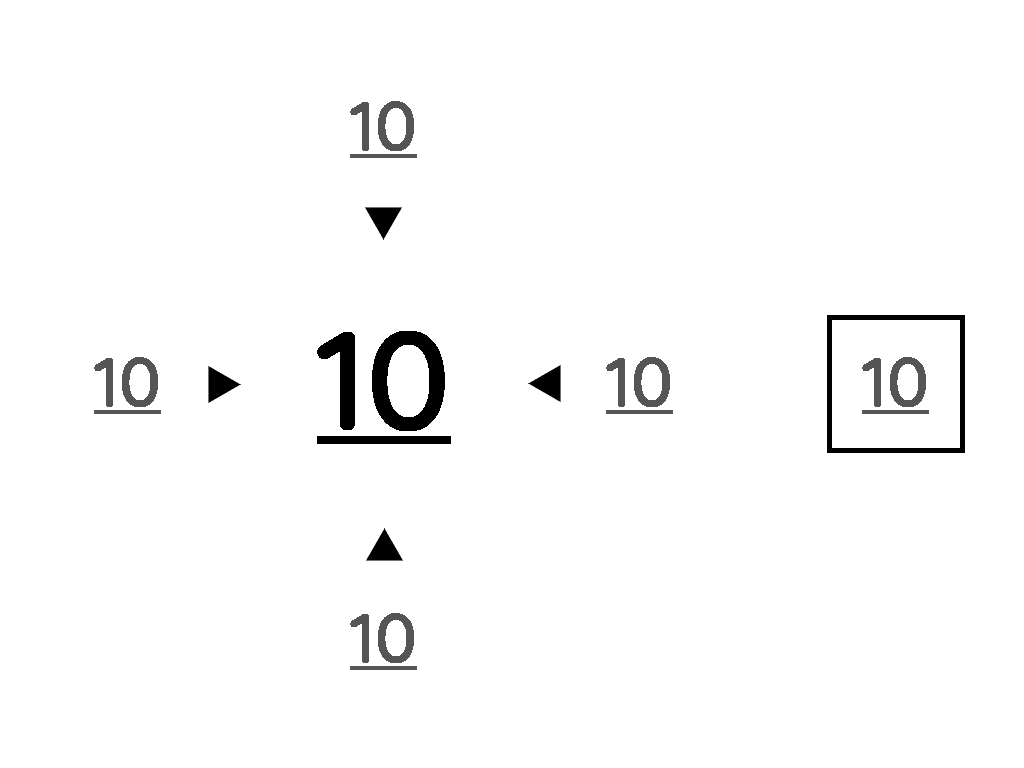
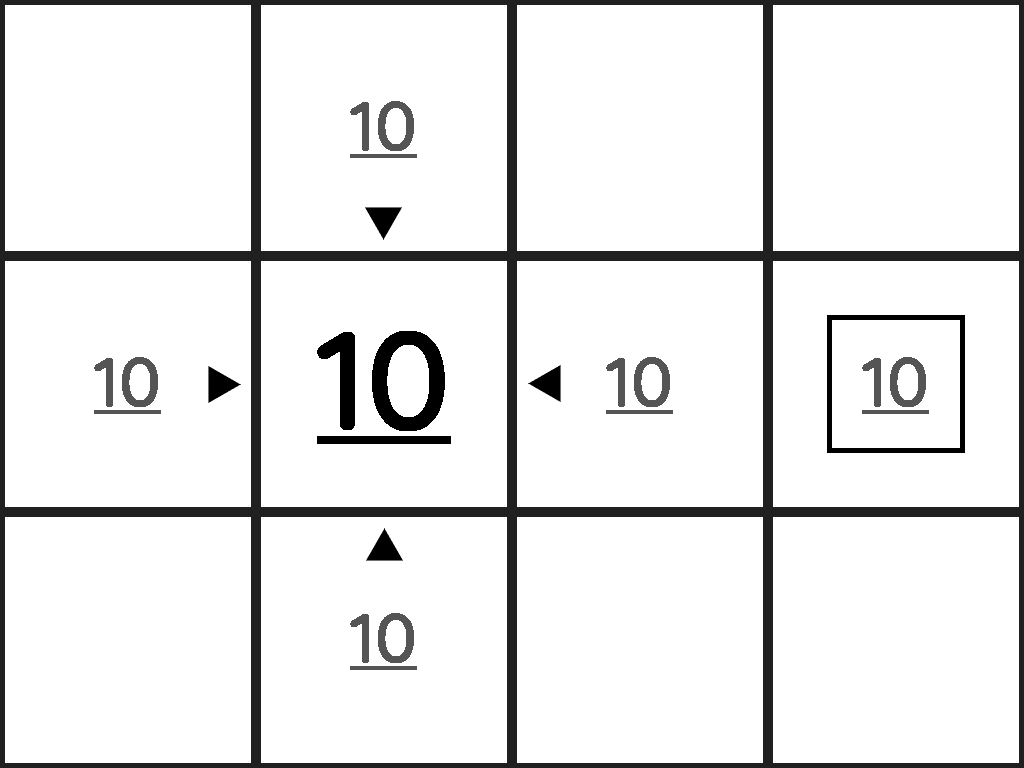
add border line to blocks

Changed region(s): [[0.0, 0.0, 1.0, 1.0]]

diff --git a/build.rs b/build.rs
@@ -1,8 +1,8 @@
-use std::iter::Sum;
-
 use image::imageops::FilterType;
 use image::io::Reader as ImageReader;
 use image::{imageops, ImageBuffer, Rgb, RgbImage};
+
+const BORDER_WIDTH: u32 = 5;
 
 fn main() {
     // generate image textures from
@@ -26,6 +26,7 @@ fn main() {
         .unwrap()
         .to_rgb8();
 
+    // put in side faces
     let mut img_goal_small = imageops::resize(&img_goal, 512, 512, FilterType::Nearest);
     for x in 0..512 {
         for y in 0..512 {
@@ -37,6 +38,7 @@ fn main() {
         }
     }
 
+    // output image
     let mut img: RgbImage = ImageBuffer::new(1024, 768);
     for x in 0..1024 {
         for y in 0..768 {
@@ -44,6 +46,7 @@ fn main() {
         }
     }
 
+    // sides
     for x in 0..256 {
         for y in 0..256 {
             let side_pixel = *img_side.get_pixel(x, y);
@@ -60,12 +63,41 @@ fn main() {
         }
     }
 
+    // border
+    for i in 0..BORDER_WIDTH {
+        let black = Rgb::from([32, 32, 32]);
+        for x in 0..1024 {
+            img.put_pixel(x, i, black);
+            img.put_pixel(x, 255 - i, black);
+            img.put_pixel(x, 256 + i, black);
+            img.put_pixel(x, 511 - i, black);
+            img.put_pixel(x, 512 + i, black);
+            img.put_pixel(x, 767 - i, black);
+        }
+        for y in 0..768 {
+            img.put_pixel(i, y, black);
+            img.put_pixel(255 - i, y, black);
+            img.put_pixel(256 + i, y, black);
+            img.put_pixel(511 - i, y, black);
+            img.put_pixel(512 + i, y, black);
+            img.put_pixel(767 - i, y, black);
+            img.put_pixel(768 + i, y, black);
+            img.put_pixel(1023 - i, y, black);
+        }
+    }
+
     for i in 0..15 {
         for x in 0..256 {
             for y in 0..256 {
                 let goal_pixel = *img_goal.get_pixel(x + (i % 4) * 256, y + (i / 4) * 256);
                 // goal
-                img.put_pixel(x + 256, y + 256, goal_pixel);
+                if x >= BORDER_WIDTH
+                    && x < 256 - BORDER_WIDTH
+                    && y >= BORDER_WIDTH
+                    && y < 256 - BORDER_WIDTH
+                {
+                    img.put_pixel(x + 256, y + 256, goal_pixel);
+                }
             }
         }
         for x in 0..128 {
